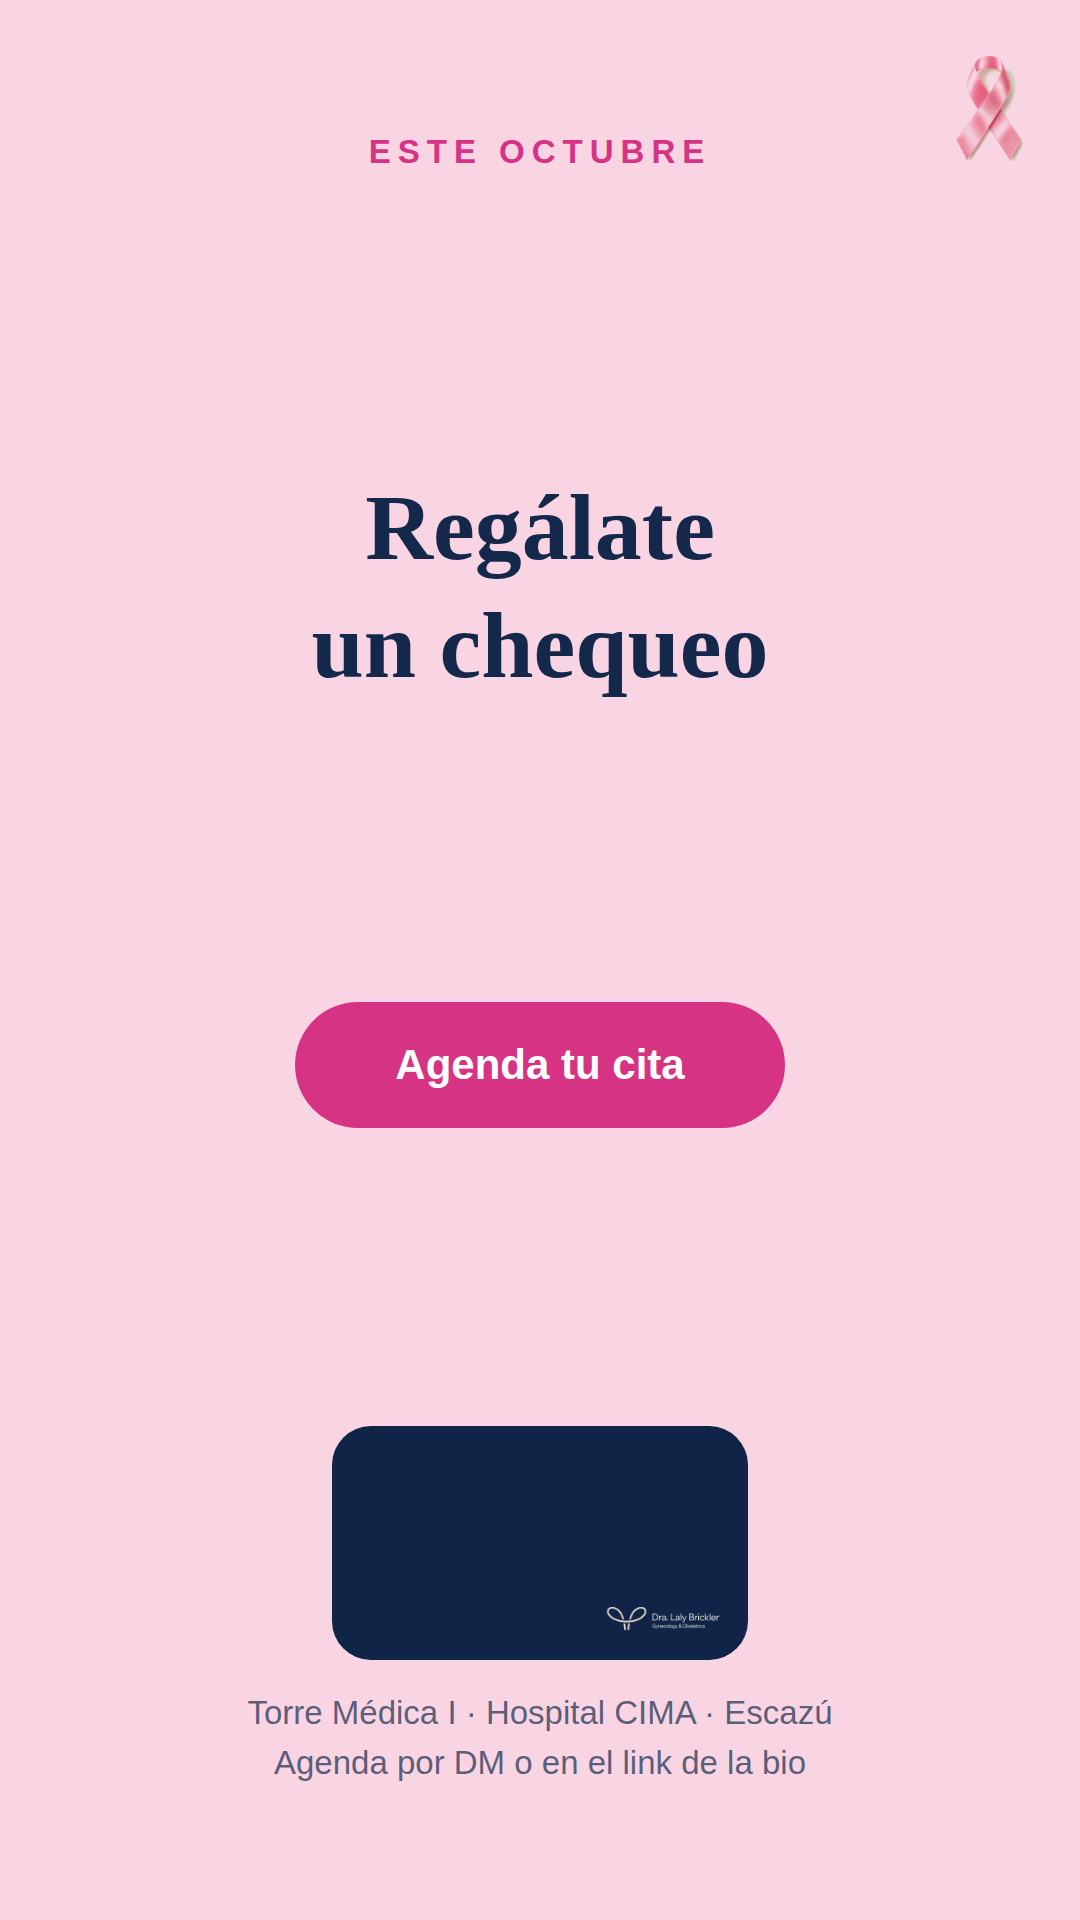
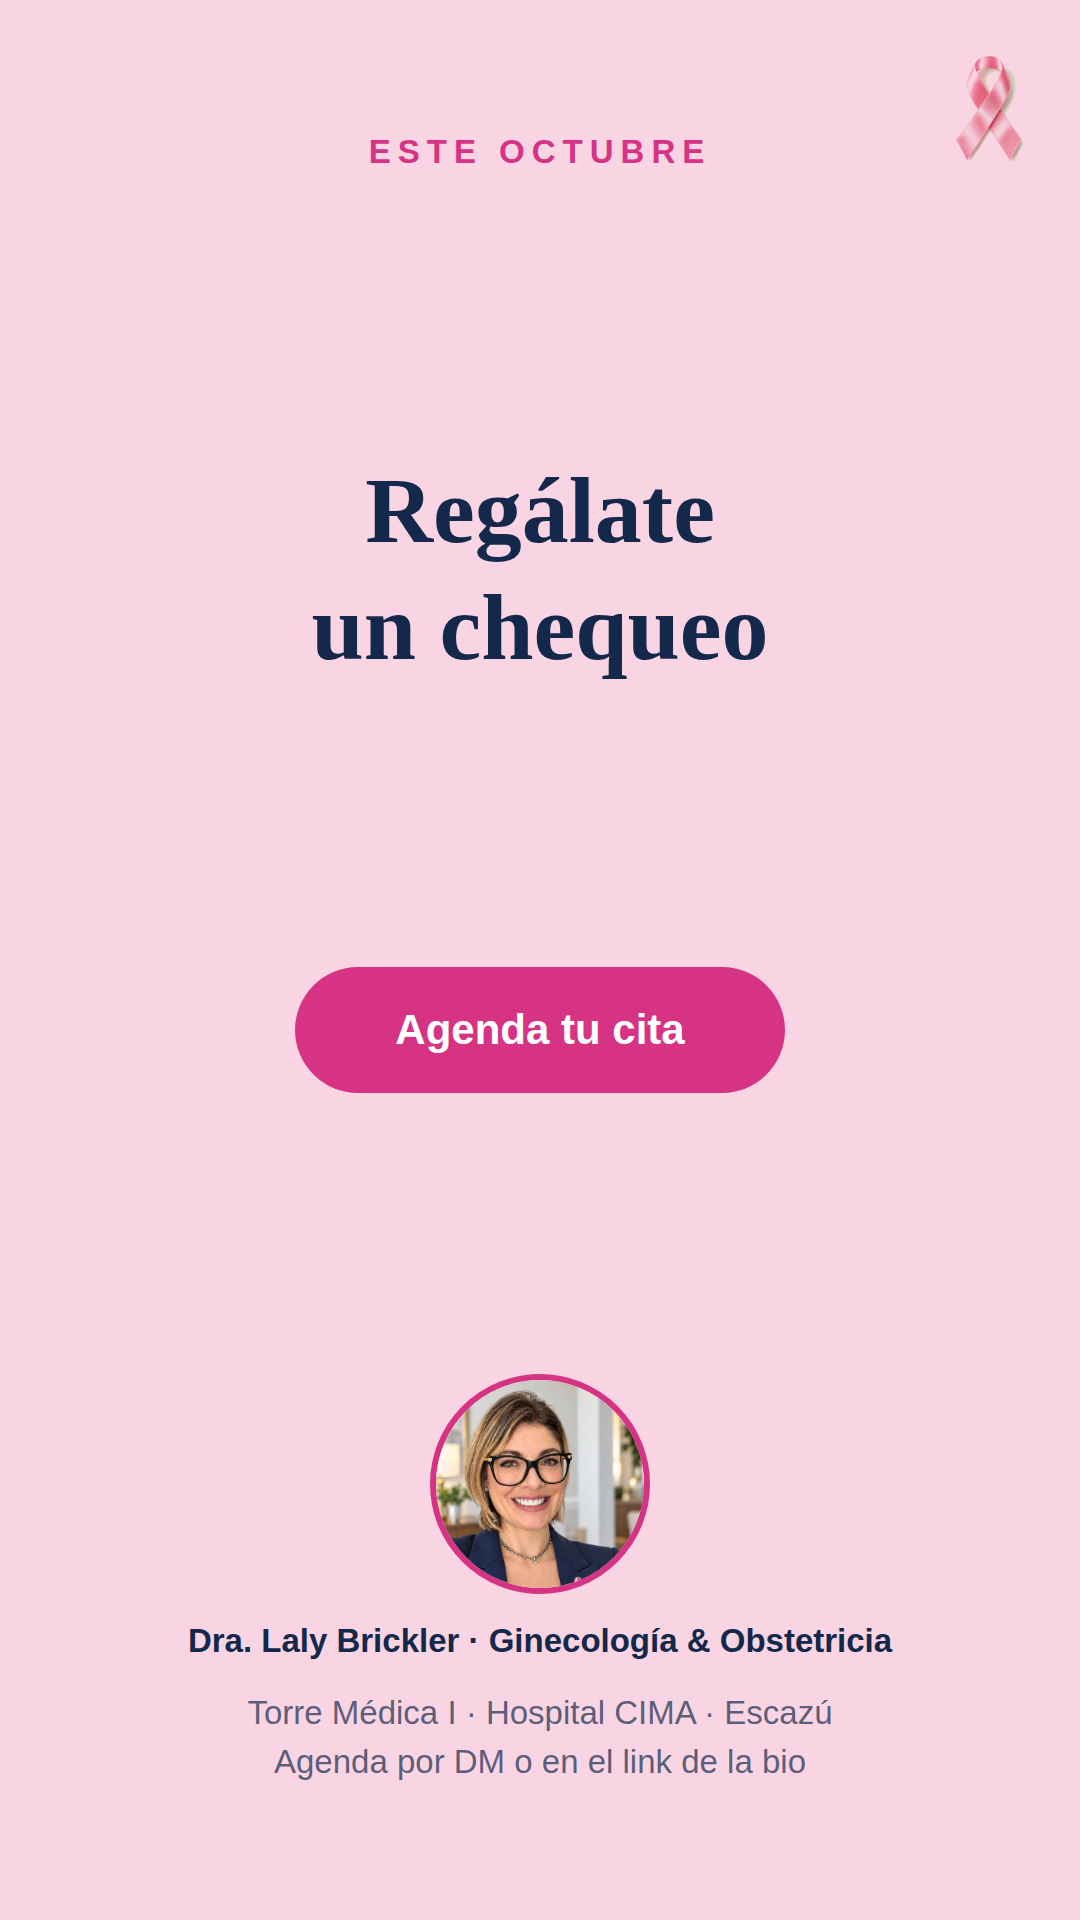
Agregar foto del mamógrafo al cuadro 4 y foto circular al cuadro 5
Cuadro 4: la foto del equipo de mamografía pasa a ser el fondo completo, con un velo rosa y una tarjeta blanca "frosted" para el titular y el checklist.
Cuadro 5: reemplaza el logo por una foto circular de la doctora con borde rosa y su nombre debajo.

Claude-Session: https://claude.ai/code/session_01FaV1Qn2R6sUZ6JMPyKNonx

diff --git a/reels/octubre-cancer-mama.md b/reels/octubre-cancer-mama.md
@@ -112,6 +112,8 @@ Paleta aprobada: **predominio rosa/palo rosa sobre navy** (más superficie rosa 
 - Cuadros finales exportados en 1080×1920, listos para usar como overlays/portada en el editor de video: `reels/assets/octubre-cancer-mama/01-gancho.png` a `05-cta.png`.
 - Cada cuadro incluye el lazo rosa de concientización (recortado, sin fondo) en la esquina superior derecha como detalle discreto (`reels/assets/octubre-cancer-mama/ribbon-icon.png`).
 - Cuadro 1 (gancho) rediseñado: la foto del lazo (`ribbon-photo.png`) ahora es el fondo completo a pantalla completa (sin logo), con el titular y la firma superpuestos en navy/rosa para contraste.
+- Cuadro 4 (tu rol): foto real de un equipo de mamografía (`mammo-photo.png`) como fondo completo, con un velo rosa semitransparente y una tarjeta blanca "frosted" sobre la parte inferior que contiene el titular y el checklist, para máxima legibilidad.
+- Cuadro 5 (cierre): se reemplazó el logo por una foto circular de la Dra. Brickler (`headshot-square.png`) con borde rosa, junto a su nombre.
 
 ---
 
